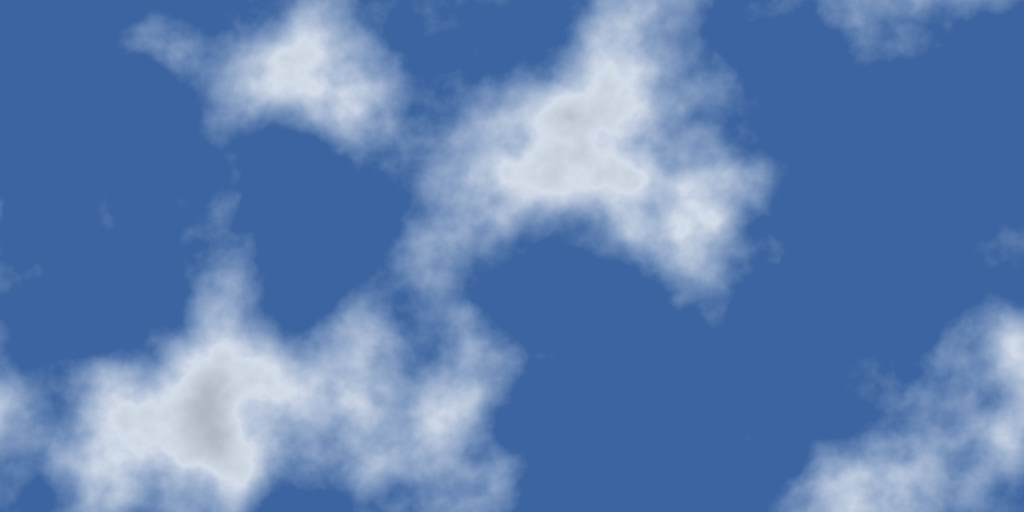
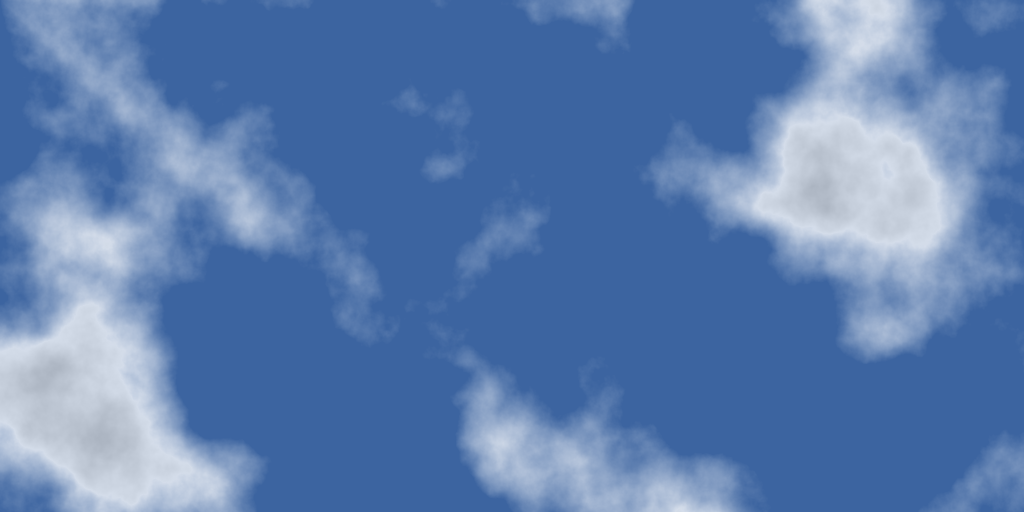
Update

diff --git a/docs/index.html b/docs/index.html
@@ -3,6 +3,6 @@
 <body>
 Today's cloud<br/>
 <img src="latest.png"/><br/>
-Latest update: Sat Jan 16 22:25:30 UTC 2021
+Latest update: Sun Jan 17 22:25:38 UTC 2021
 </body>
 </html>
